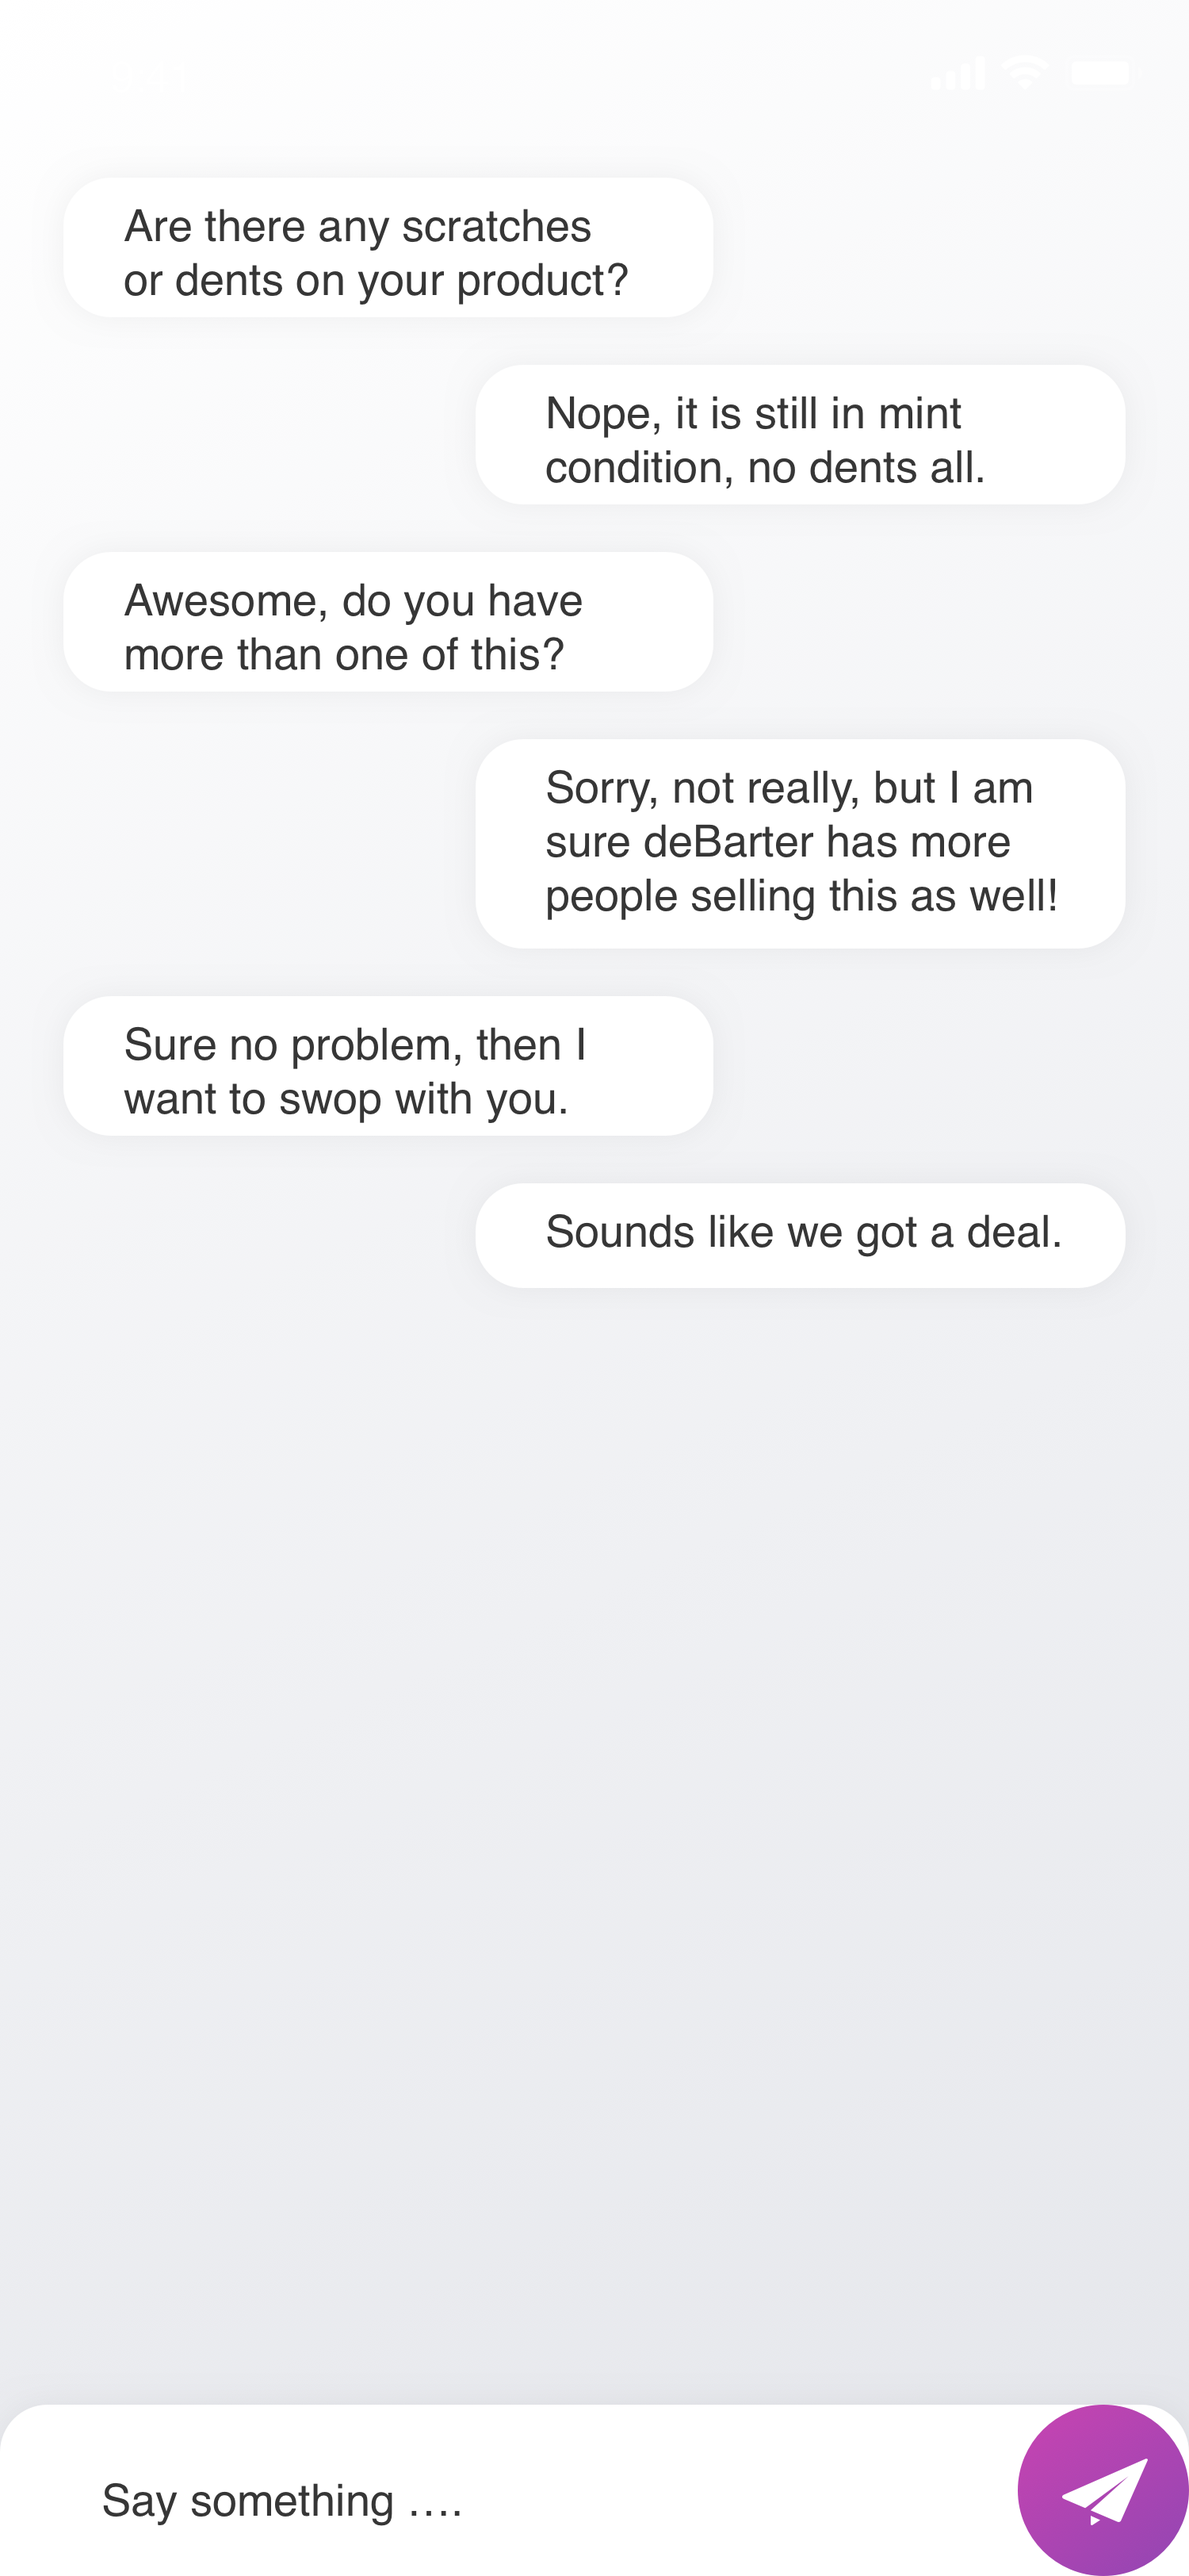
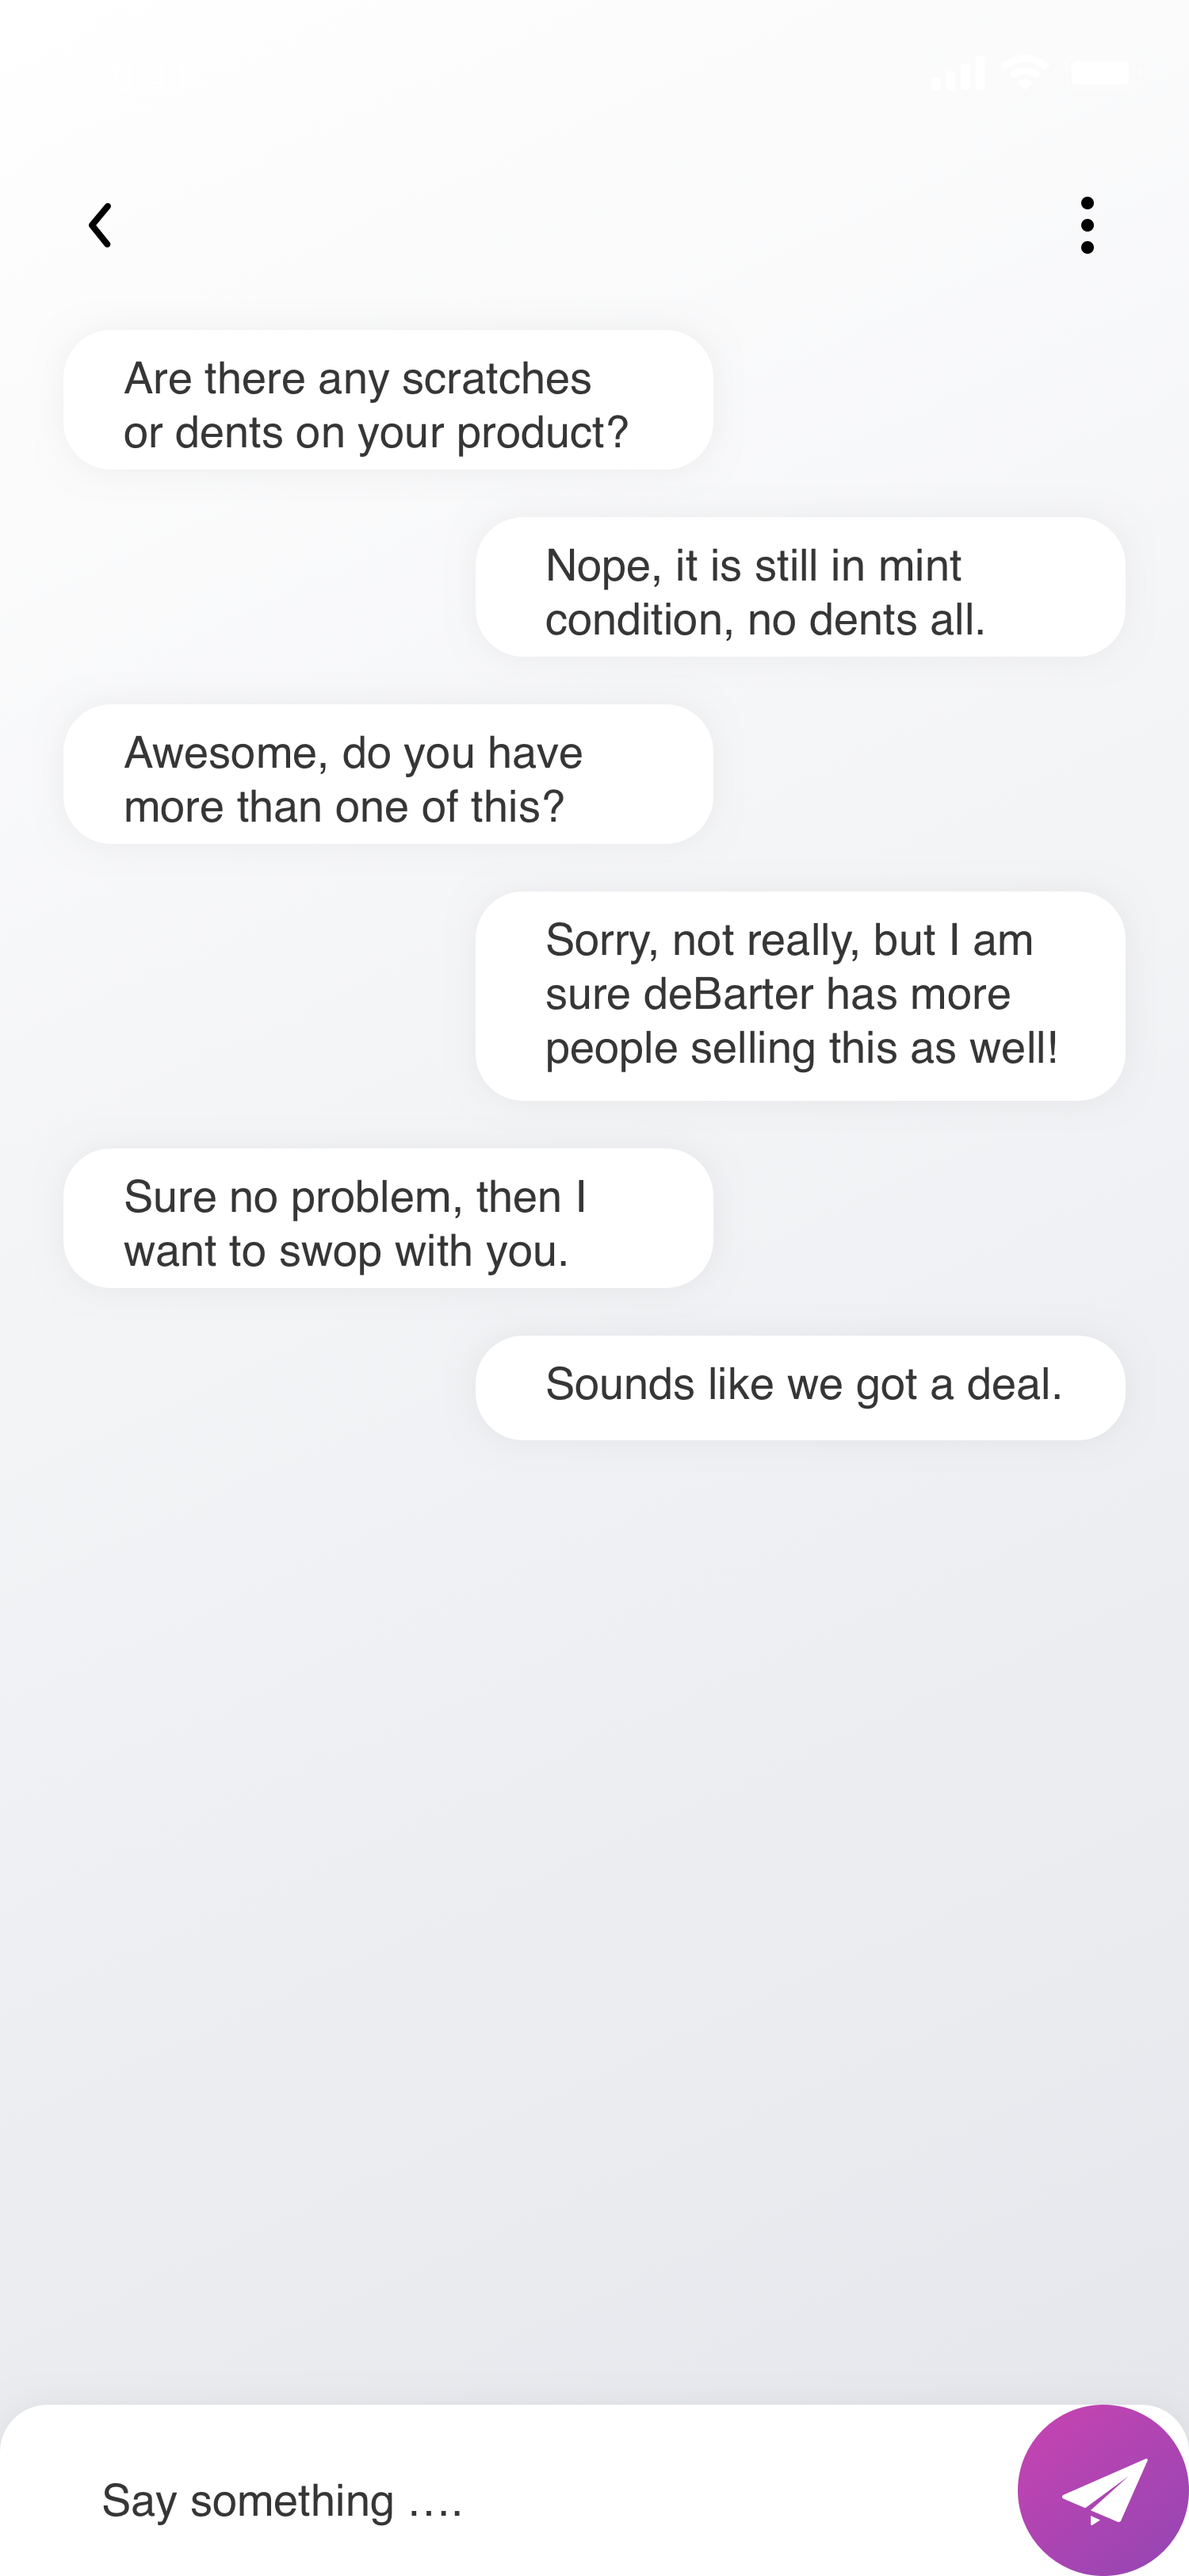
hide the btm nav in chat  page

diff --git a/App.js b/App.js
@@ -11,9 +11,34 @@ import ChatScreen from "./containers/Chat";
 import Icon from "./components/Icon";
 
 const ChatNavigator = createStackNavigator({
-	Messages: {screen: MessagesScreen},
-	Chat: {screen: ChatScreen},
+	Messages: {
+		screen: MessagesScreen,
+		navigationOptions: {
+			header: null,
+		}
+	},
+	Chat: {
+		screen: ChatScreen,
+		navigationOptions: {
+			header: null,
+		}
+	},
 });
+
+ChatNavigator.navigationOptions = ({ navigation }) => {
+
+    let tabBarVisible = true;
+
+    let routeName = navigation.state.routes[navigation.state.index].routeName
+
+    if ( routeName == 'Chat' ) {
+        tabBarVisible = false
+    }
+
+    return {
+        tabBarVisible,
+    }
+}
 
 const App = createBottomTabNavigator(
 	{
